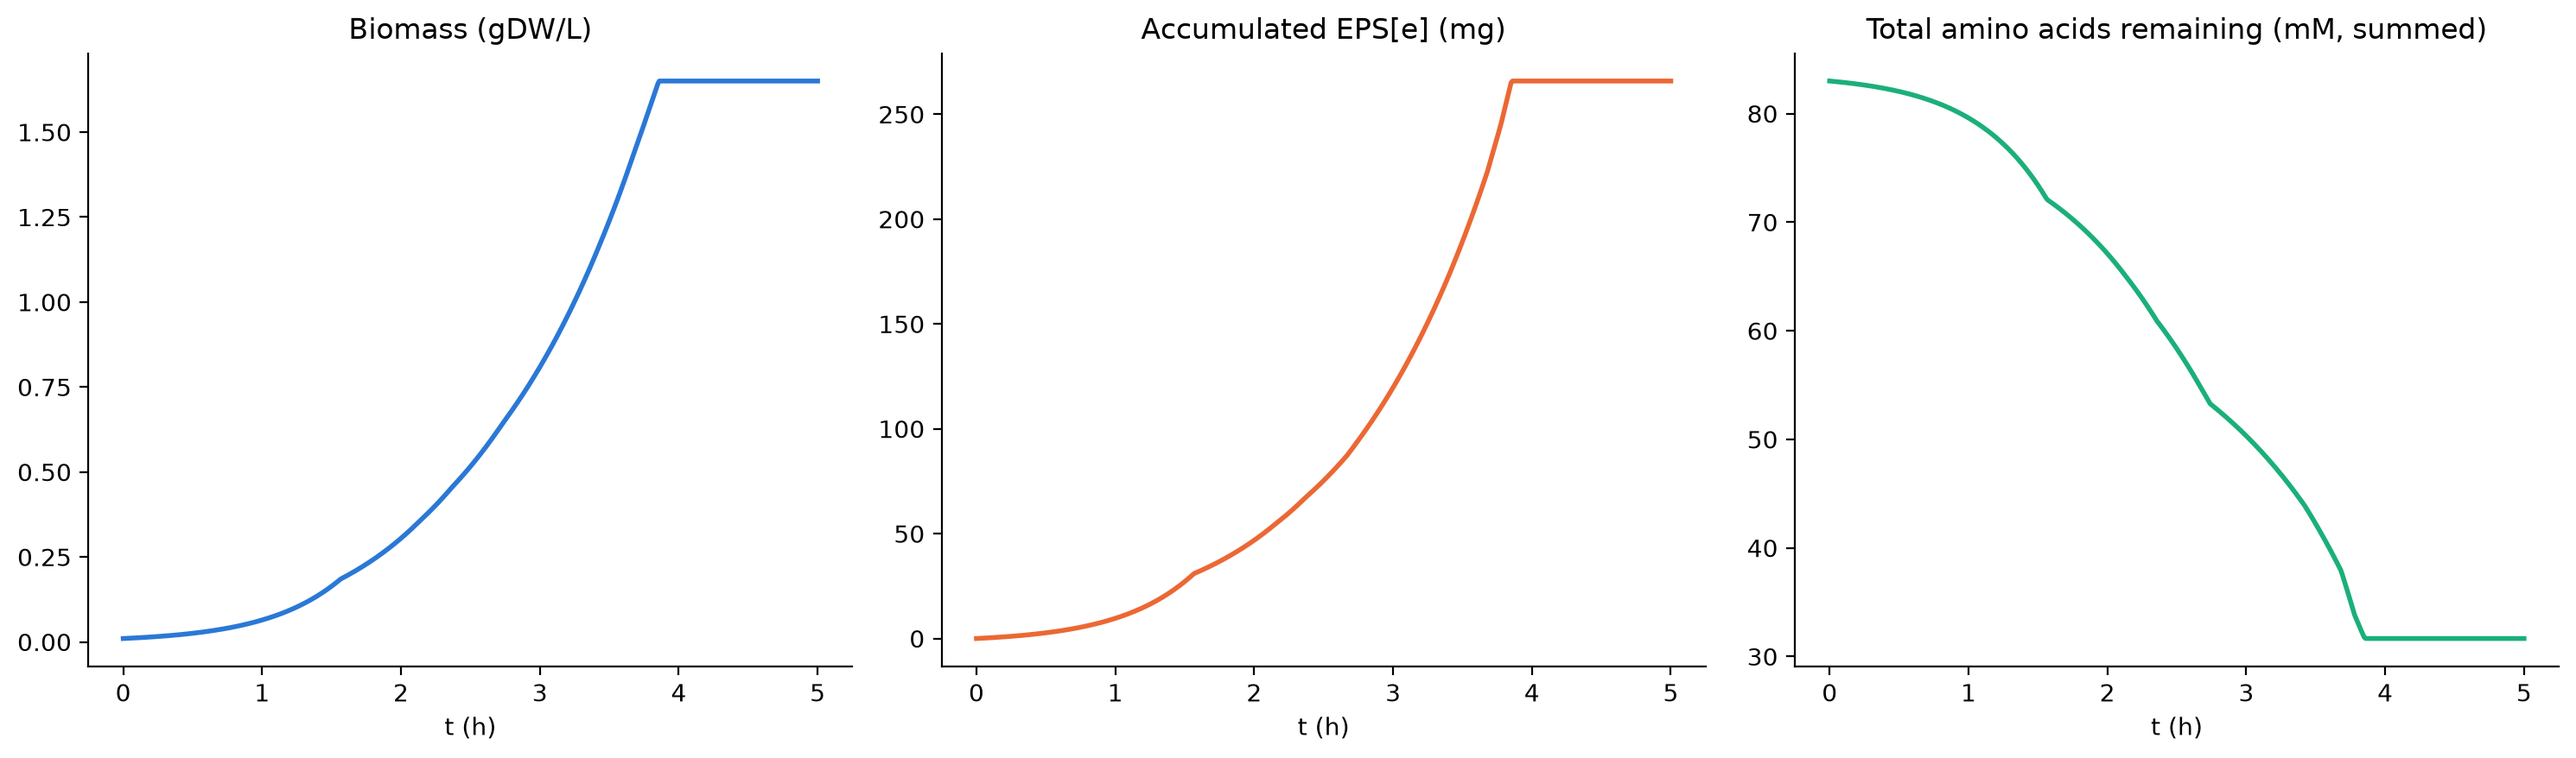
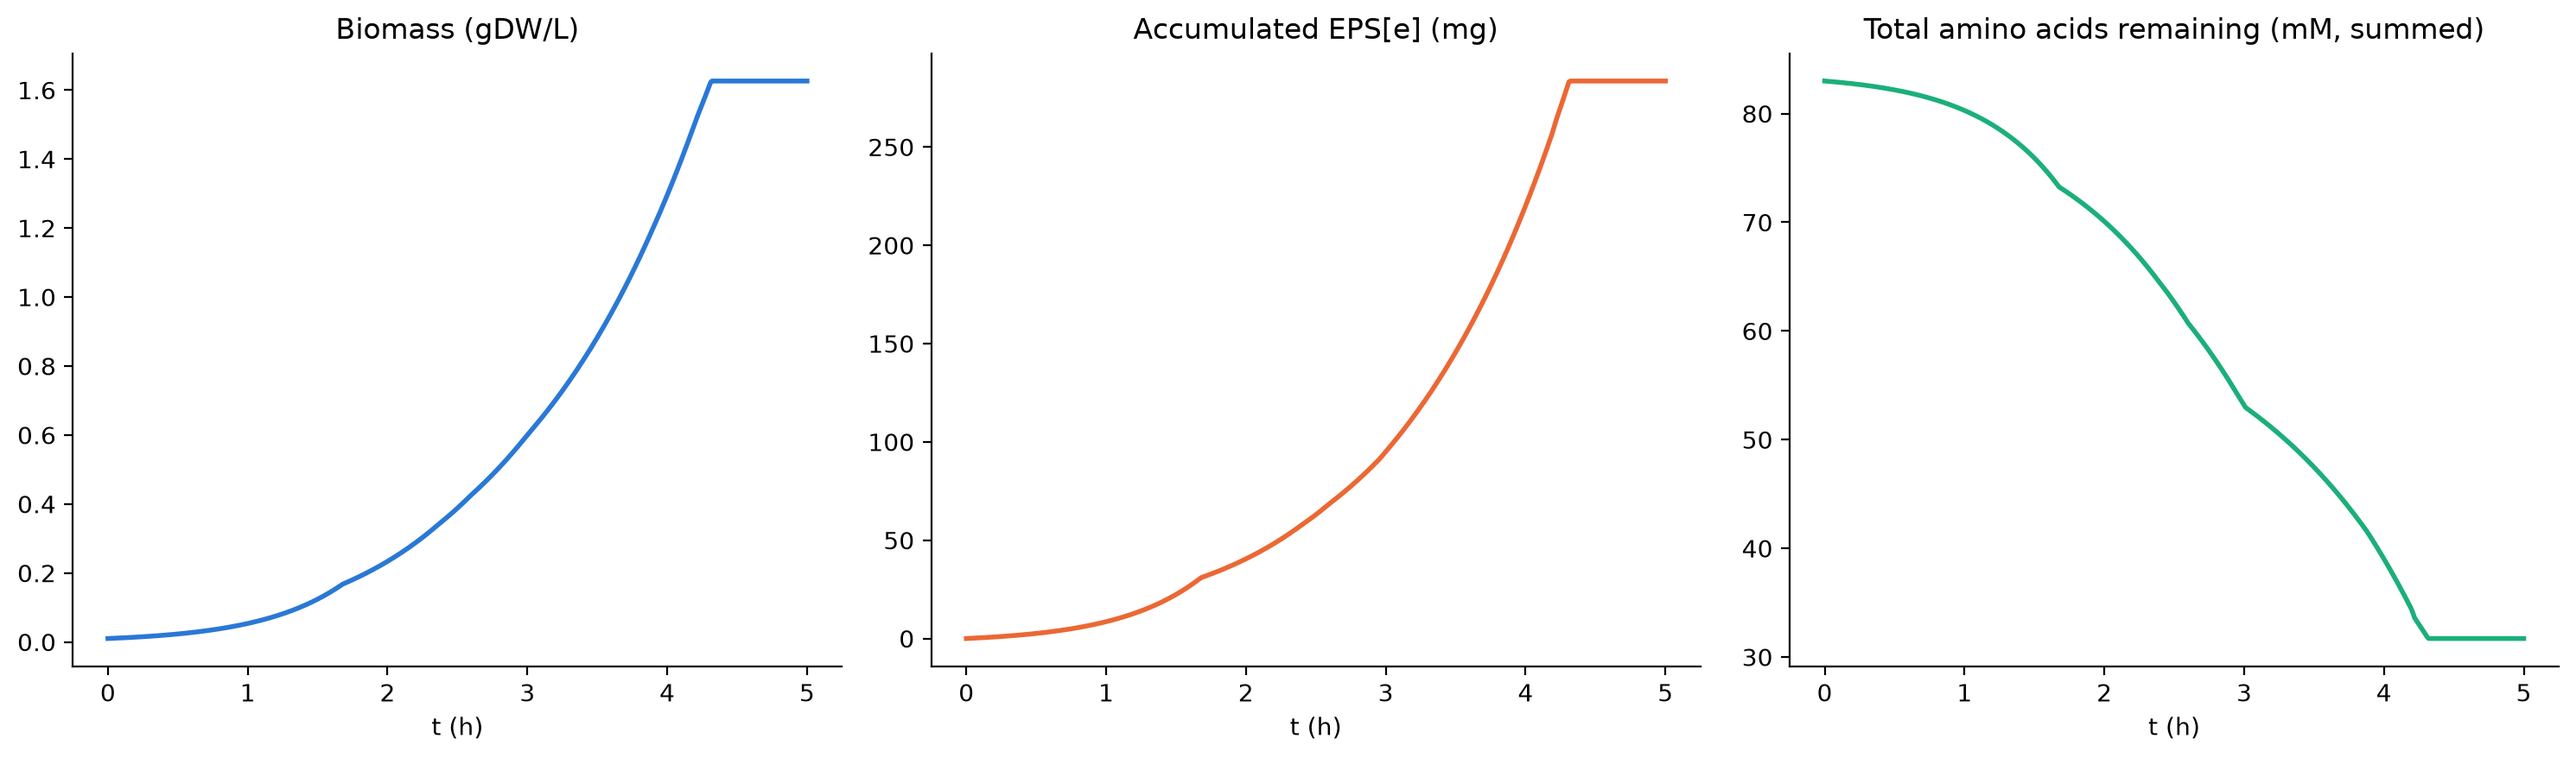
fix(eps-fba): stage-2 mass-balance fix + growth-rate-cap sensitivity test
Both EpsFBAStep and EpsCdFBAStep's update() previously reported biomass and
substrate consumption using stage 1's (growth-maximizing) flux instead of
stage 2's (the actual floored-growth-then-EPS-maximizing solve). Not
mass-balanced -- a single finite nutrient pool can only support one flux
distribution per step. All three outputs (biomass, substrates, eps) now read
from stage 2 consistently.

Shifts the static-phase headline plateau from (biomass=1.6503, eps=265.837,
t=4.0h) to (biomass=1.6262, eps=283.527, t=4.4h) -- both frameworks still
agree exactly post-fix, re-verified via the dashboard's tracked run-baseline.

Also adds a growth_rate_cap_fraction sensitivity-test knob (default 1.0,
no-op) plus run_growth_rate_sensitivity.py: the model is highly sensitive to
whether cells grow at the FBA-optimal rate vs. a capped fraction of it --
even 75% of optimal growth produces ~2.3x the baseline's EPS, since a lower
growth floor frees substrate headroom for EPS production. Directionally
consistent with the RpoS/CsgD stationary-phase literature on E. coli matrix
production.

diff --git a/pbg_eps_biofilm/eps_spatioflux__step.py b/pbg_eps_biofilm/eps_spatioflux__step.py
@@ -17,6 +17,12 @@ class EpsFBAStep(DynamicFBA):
         "eps_reaction_id": {"_type": "string", "_default": "EX_eps_e"},
         "growth_floor_fraction": {"_type": "float", "_default": 0.9},
         "aa_bounds": "map[float]",
+        # Sensitivity-test knob, NOT a validated biological mechanism: scales the FBA-optimal
+        # growth rate down by this fraction before the floor-then-maximize-EPS stage, to test
+        # how sensitive time-to-depletion/total-EPS are to the (unrealistic) assumption that
+        # cells grow at their unconstrained planktonic optimum. Default 1.0 = no-op, exactly
+        # reproduces prior validated behavior. See flow_phase_open_issues memory item A.1.
+        "growth_rate_cap_fraction": {"_type": "float", "_default": 1.0},
     }
 
     def initialize(self, config):
@@ -61,19 +67,43 @@ class EpsFBAStep(DynamicFBA):
                     "eps": 0.0,
                 }
             mu = sol1.fluxes[self.config['biomass_reaction_id']]
-            aa_flux = {aa_id: sol1.fluxes.get(aa_id, 0.0) for aa_id in self.config['aa_bounds']}
 
-            #Stage #2: floor growth, max EPS[e]
+            # Sensitivity-test knob (flow_phase_open_issues memory item A.1), NOT a validated
+            # biological mechanism: scales down the reference growth rate used to set stage 2's
+            # floor, to test sensitivity to the (unrealistic) assumption that cells grow at their
+            # unconstrained planktonic optimum. Default 1.0 = no-op.
+            mu_reference = mu * self.config['growth_rate_cap_fraction']
+
+            #Stage #2: floor growth at growth_floor_fraction * mu_reference, max EPS[e].
+            # Stage 1's mu and aa_flux are NOT used for the reported outputs below -- they were
+            # only needed to compute the floor. Reporting them directly would mean claiming both
+            # the unconstrained-growth flux solution AND the floored-growth EPS-maximizing flux
+            # solution happened in the same step, which isn't mass-balanced: a single finite
+            # nutrient pool can only support one flux distribution per step. Stage 2's own solve
+            # is the one real, self-consistent answer -- growth, substrate uptake, and EPS must
+            # all be read from sol2 (see flow_phase_open_issues memory item E). In practice sol2's
+            # realized growth settles at (or essentially at) the floor, since growing beyond it
+            # isn't rewarded by the EPS-maximizing objective.
             self.model.reactions.get_by_id(self.config["biomass_reaction_id"]).lower_bound = \
-                self.config["growth_floor_fraction"] * mu
+                self.config["growth_floor_fraction"] * mu_reference
             self.model.objective = self.config['eps_reaction_id']
             sol2 = self.model.optimize()
-            eps_flux = sol2.fluxes[self.config['eps_reaction_id']] if sol2.status == 'optimal' else 0.0
+            if sol2.status != 'optimal':
+                # Stage 2's constraint is a strict relaxation of stage 1's (a lower floor on an
+                # already-feasible reaction), so this should not normally happen -- treat as the
+                # same "nothing trustworthy to report" case as an infeasible stage 1.
+                return {
+                    "substrates": {aa_id: 0.0 for aa_id in self.config['aa_bounds']},
+                    "biomass": 0.0,
+                    "eps": 0.0,
+                }
+            mu_realized = sol2.fluxes[self.config['biomass_reaction_id']]
+            aa_flux = {aa_id: sol2.fluxes.get(aa_id, 0.0) for aa_id in self.config['aa_bounds']}
+            eps_flux = sol2.fluxes[self.config['eps_reaction_id']]
 
         return{
           "substrates": {aa_id: flux * biomass * interval for aa_id, flux in aa_flux.items()},
-          "biomass": mu * biomass * interval,
+          "biomass": mu_realized * biomass * interval,
           "eps": eps_flux * biomass * interval,
-
         }
 

diff --git a/pbg_eps_biofilm/run_growth_rate_sensitivity.py b/pbg_eps_biofilm/run_growth_rate_sensitivity.py
@@ -1,0 +1,85 @@
+"""Sensitivity test A.1 (flow_phase_open_issues memory): how much does time-to-depletion and
+total EPS shift if cells don't grow at their unconstrained FBA-optimal rate?
+
+Real E. coli biology (RpoS/CsgD cascade) ties curli/cellulose matrix production to early
+stationary phase, not to continuous near-maximal growth -- our default growth_floor_fraction=0.9
+design assumes EPS production happens alongside near-maximal growth throughout. This script
+doesn't resolve that modeling question; it quantifies how sensitive the batch-phase trajectory
+is to growth rate, as a first step toward deciding whether it matters.
+
+Sweeps EpsFBAStep's growth_rate_cap_fraction (a no-op at 1.0, reproduces the validated static-
+phase result exactly) across [1.0, 0.75, 0.5, 0.25] and plots biomass/eps/aa_total together.
+
+Guarded by `if __name__ == "__main__":` for the same reason as run_static_composite.py --
+build_core()'s auto-discovery imports every top-level module in this package while registering
+Process/Step classes, and must never trigger a real simulation run as a side effect of that.
+"""
+import warnings
+warnings.filterwarnings('ignore')
+
+from pbg_eps_biofilm.run_static_composite import run
+
+CAP_FRACTIONS = [1.0, 0.75, 0.5, 0.25]
+# Fixed categorical color order, consistent with the palette used in run_static_composite.py's
+# biomass/eps/aa_total panels (blue/orange/aqua) -- extended with one more categorical hue.
+COLORS = {1.0: "#2a78d6", 0.75: "#eb6834", 0.5: "#1baf7a", 0.25: "#8858d0"}
+
+
+def run_sweep(total_hours=5.0):
+    results = {}
+    for cap in CAP_FRACTIONS:
+        print(f"running growth_rate_cap_fraction={cap} ...")
+        results[cap] = run(total_hours=total_hours, growth_rate_cap_fraction=cap)
+    return results
+
+
+def _aa_total(substrates):
+    return sum(substrates.values())
+
+
+def summarize(results):
+    print(f"\n{'cap_fraction':>12} {'final_biomass':>14} {'final_eps (mg)':>16} {'t_plateau (h)':>14}")
+    for cap, rows in results.items():
+        biomass = [r['fields']['biomass'] for r in rows]
+        eps = [r['fields']['eps'] for r in rows]
+        t = [r['global_time'] for r in rows]
+        final_biomass, final_eps = biomass[-1], eps[-1]
+        # first time biomass stops changing meaningfully step-to-step (plateau onset)
+        t_plateau = next(
+            (t[i] for i in range(1, len(biomass)) if abs(biomass[i] - biomass[i - 1]) < 1e-9),
+            float('nan'),
+        )
+        print(f"{cap:12.2f} {final_biomass:14.4f} {final_eps:16.4f} {t_plateau:14.2f}")
+
+
+def plot(results, outfile="growth_rate_sensitivity.png"):
+    import matplotlib.pyplot as plt
+
+    fig, axes = plt.subplots(1, 3, figsize=(15, 4.5))
+    for cap, rows in results.items():
+        t = [r['global_time'] for r in rows]
+        biomass = [r['fields']['biomass'] for r in rows]
+        eps = [r['fields']['eps'] for r in rows]
+        aa_total = [_aa_total(r['fields']['substrates']) for r in rows]
+        color = COLORS[cap]
+        label = f"{cap:.2f}×"
+        axes[0].plot(t, biomass, linewidth=2, color=color, label=label)
+        axes[1].plot(t, eps, linewidth=2, color=color, label=label)
+        axes[2].plot(t, aa_total, linewidth=2, color=color, label=label)
+
+    titles = ["Biomass (gDW/L)", "Accumulated EPS[e] (mg)", "Total amino acids remaining (mM, summed)"]
+    for ax, title in zip(axes, titles):
+        ax.set_title(title)
+        ax.set_xlabel("t (h)")
+        ax.spines[['top', 'right']].set_visible(False)
+        ax.legend(title="growth rate cap", fontsize=8, title_fontsize=8)
+
+    plt.tight_layout()
+    plt.savefig(outfile, dpi=200, bbox_inches='tight')
+    print(f"Saved: {outfile}")
+
+
+if __name__ == "__main__":
+    results = run_sweep(total_hours=5.0)
+    summarize(results)
+    plot(results)

diff --git a/pbg_eps_biofilm/eps_cdFBA_step.py b/pbg_eps_biofilm/eps_cdFBA_step.py
@@ -20,6 +20,9 @@ class EpsCdFBAStep(dFBA):
         "eps_reaction_id": {"_type": "string", "_default": "EX_eps_e"},
         "growth_floor_fraction": {"_type": "float", "_default": 0.9},
         "aa_bounds": "map[float]",
+        # Sensitivity-test knob, kept in sync with EpsFBAStep -- see that file's comment and
+        # flow_phase_open_issues memory item A.1. Default 1.0 = no-op.
+        "growth_rate_cap_fraction": {"_type": "float", "_default": 1.0},
     }
 
     def inputs(self):
@@ -60,17 +63,31 @@ class EpsCdFBAStep(dFBA):
                 return {"shared_environment": {"counts": zero_update}}
 
             mu = sol1.fluxes[self.biomass_identifier]
-            aa_flux = {aa_id: sol1.fluxes.get(aa_id, 0.0) for aa_id in self.config["aa_bounds"]}
+            mu_reference = mu * self.config['growth_rate_cap_fraction']
 
-            # Stage 2: floor growth, maximize EPS[e]
+            # Stage 2: floor growth at growth_floor_fraction * mu_reference, maximize EPS[e].
+            # Stage 1's mu and aa_flux are NOT used for the reported outputs below -- only to
+            # compute the floor. Reporting them directly would mean claiming both the
+            # unconstrained-growth flux solution AND the floored-growth EPS-maximizing flux
+            # solution happened in the same step, which isn't mass-balanced. Stage 2's own solve
+            # is the one real, self-consistent answer (see flow_phase_open_issues memory item E,
+            # and the matching fix/comment in EpsFBAStep).
             self.model.reactions.get_by_id(self.biomass_identifier).lower_bound = \
-                self.config["growth_floor_fraction"] * mu
+                self.config["growth_floor_fraction"] * mu_reference
             self.model.objective = self.config["eps_reaction_id"]
             sol2 = self.model.optimize()
-            eps_flux = sol2.fluxes[self.config["eps_reaction_id"]] if sol2.status == "optimal" else 0.0
+            if sol2.status != "optimal":
+                zero_update = {aa_id: 0.0 for aa_id in self.config["aa_bounds"]}
+                zero_update[name] = 0.0
+                zero_update["eps"] = 0.0
+                return {"shared_environment": {"counts": zero_update}}
+
+            mu_realized = sol2.fluxes[self.biomass_identifier]
+            aa_flux = {aa_id: sol2.fluxes.get(aa_id, 0.0) for aa_id in self.config["aa_bounds"]}
+            eps_flux = sol2.fluxes[self.config["eps_reaction_id"]]
 
         counts_update = {aa_id: flux * biomass * interval for aa_id, flux in aa_flux.items()}
-        counts_update[name] = mu * biomass * interval
+        counts_update[name] = mu_realized * biomass * interval
         counts_update["eps"] = eps_flux * biomass * interval
 
         return {"shared_environment": {"counts": counts_update}}

diff --git a/pbg_eps_biofilm/composites/eps_biofilm_static.py b/pbg_eps_biofilm/composites/eps_biofilm_static.py
@@ -29,10 +29,13 @@ DEFAULT_INITIAL_AA_CONC = {
         "growth_floor_fraction": {"type": "float", "default": 0.9},
         "initial_biomass": {"type": "float", "default": 0.01},
         "dt": {"type": "float", "default": 0.01},
+        # Sensitivity-test knob (see EpsFBAStep) -- 1.0 is a no-op, reproduces validated behavior.
+        "growth_rate_cap_fraction": {"type": "float", "default": 1.0},
     },
 )
 def eps_biofilm_static(core=None, *, model_file="eps_ecoli_model_lb_epspool.xml",
-                        growth_floor_fraction=0.9, initial_biomass=0.01, dt=0.01):
+                        growth_floor_fraction=0.9, initial_biomass=0.01, dt=0.01,
+                        growth_rate_cap_fraction=1.0):
     # dt=0.01h is a working assumption, NOT yet convergence-tested on the full loop --
     # an earlier single-step spot-check (dt=0.1h vs dt=0.001h) showed ~9% timing drift
     # in when the amino-acid depletion cascade completes.
@@ -45,6 +48,7 @@ def eps_biofilm_static(core=None, *, model_file="eps_ecoli_model_lb_epspool.xml"
                 "biomass_reaction_id": "BIOMASS_Ec_iML1515_core_75p37M",
                 "eps_reaction_id": "EX_eps_e",
                 "growth_floor_fraction": growth_floor_fraction,
+                "growth_rate_cap_fraction": growth_rate_cap_fraction,
                 "aa_bounds": DEFAULT_AA_BOUNDS,
             },
             "inputs": {
